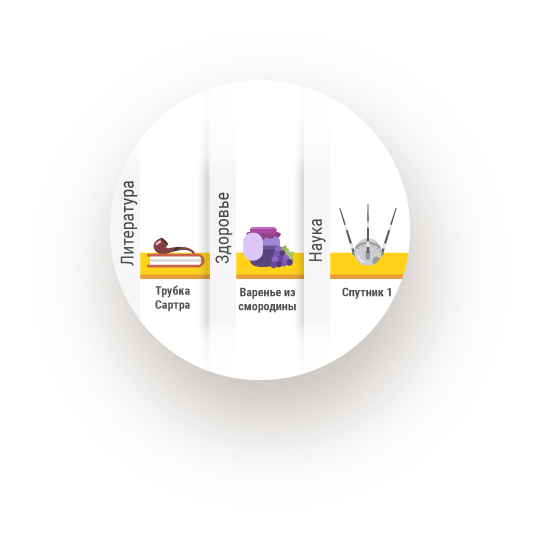
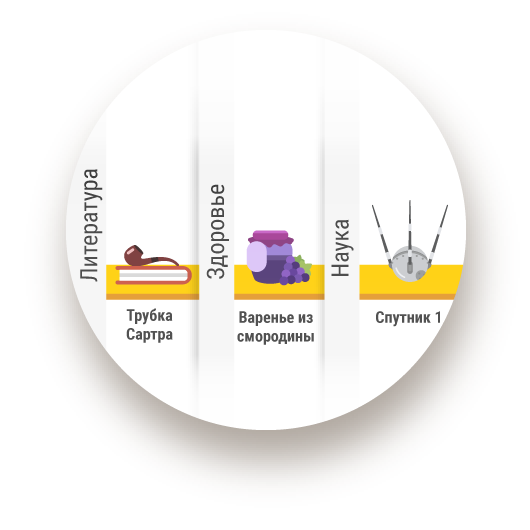
fixing_iphone

Changed region(s): [[0.0906, 0.2717, 0.9358, 0.9057], [0.8151, 0.2415, 0.8453, 0.2717]]

diff --git a/css/responsivity.css b/css/responsivity.css
@@ -283,7 +283,7 @@ Responsiveness Fixes
 		max-width: 85%;
 	}
 	.image_float {
-		top:0;
+		top:-14%;
 	}
 	.cta_button_area {
 		margin: 20px 0;
@@ -365,6 +365,10 @@ Responsiveness Fixes
 		font-size: 14px;
 		line-height: 13px
 	}
+	.inner_paragr {
+		width: 100%;
+		margin: 2px 0;
+	}
 	.headler_width {
 		width: 100%; 
 	}
@@ -435,6 +439,7 @@ Responsiveness Fixes
 	}
 	.block_slider_text {
 		margin-top: 20px;
+		padding: 0;
 	}
 	.without_margin {
 		margin-top: 0;

diff --git a/css/main.css b/css/main.css
@@ -1501,10 +1501,10 @@ label {
 	width: 60%;
 }
 .image_float {
-	width: 48%;
+	width: 56%;
     position: absolute;
-    right: -3%;
-    top: 8%;
+    right: -4%;
+    top: -6%;
     z-index: 100;
 }
 #more_info {
@@ -1659,7 +1659,7 @@ label {
 	opacity: 1;
 }
 .img_first_slide {
-	width: 56%;
+	width: 50%;
 }
 .owl-pagination {
 	margin: 0 auto;
